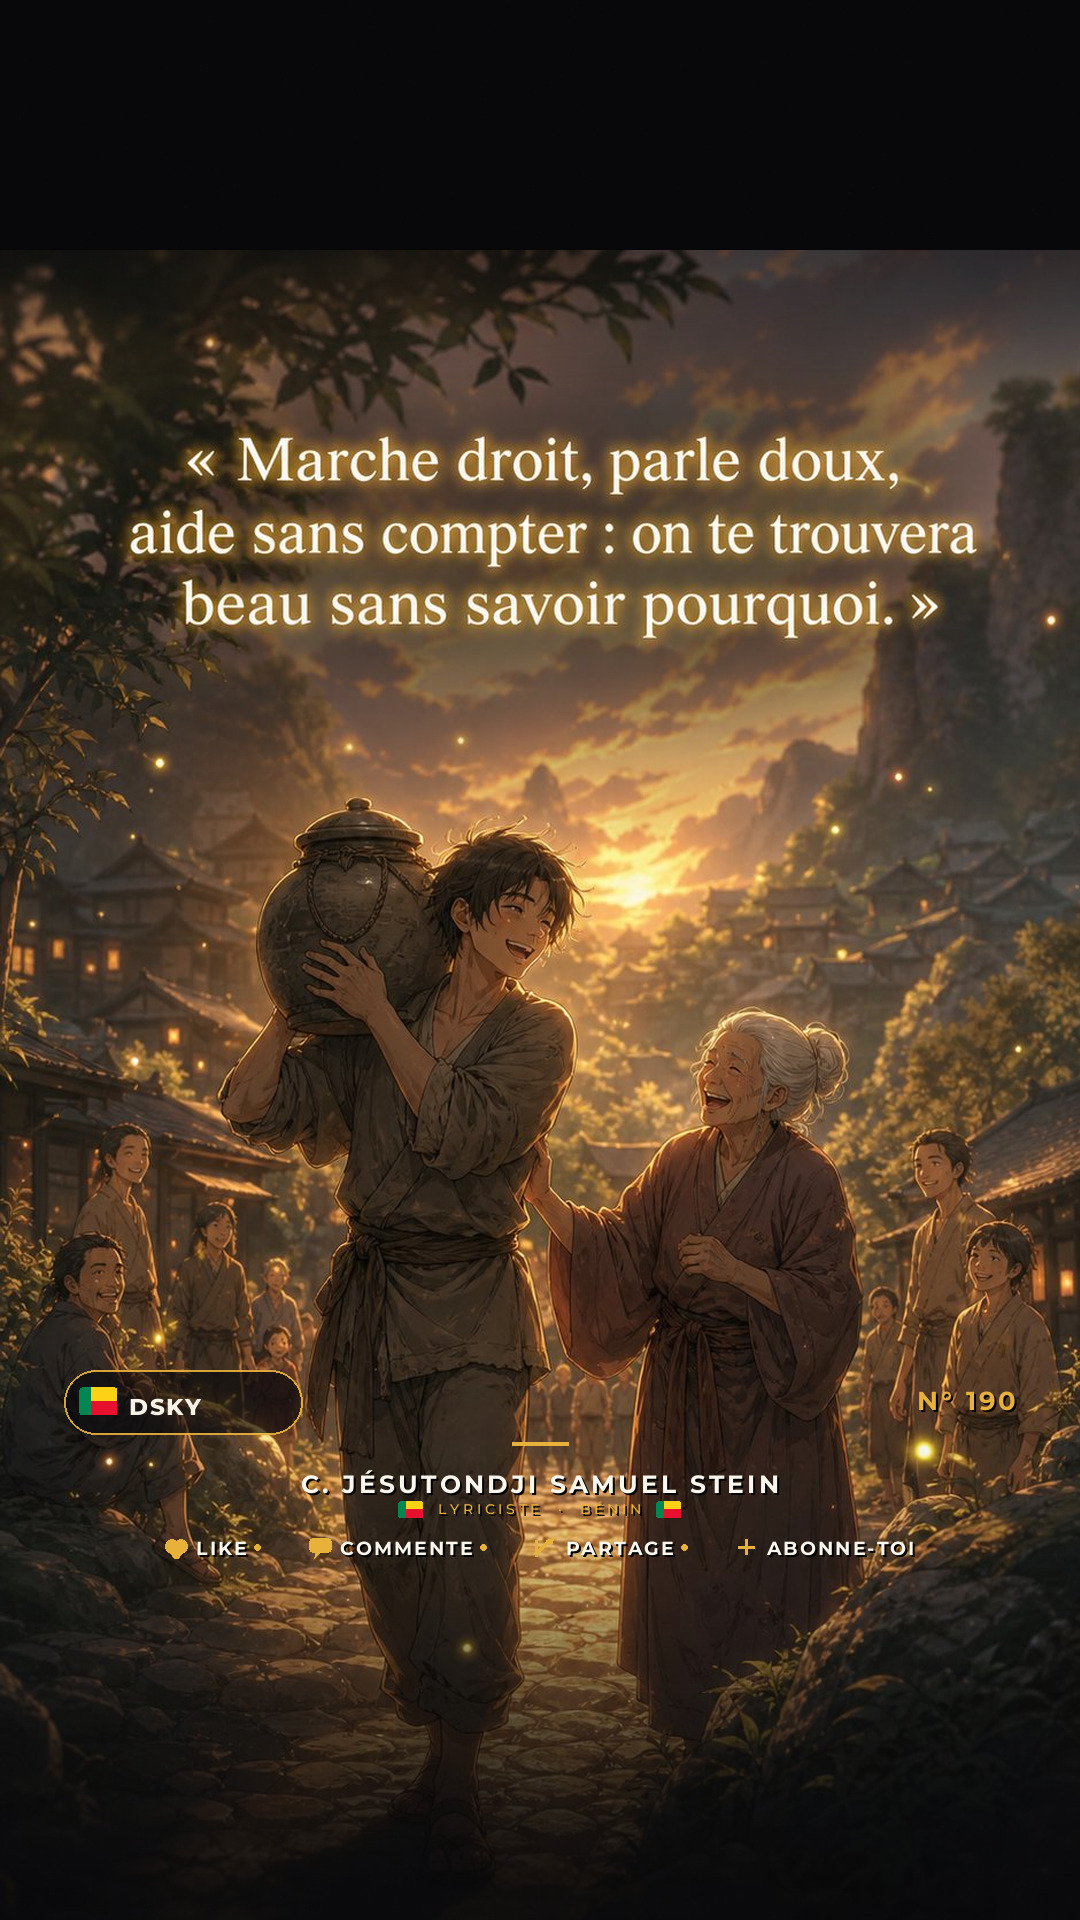
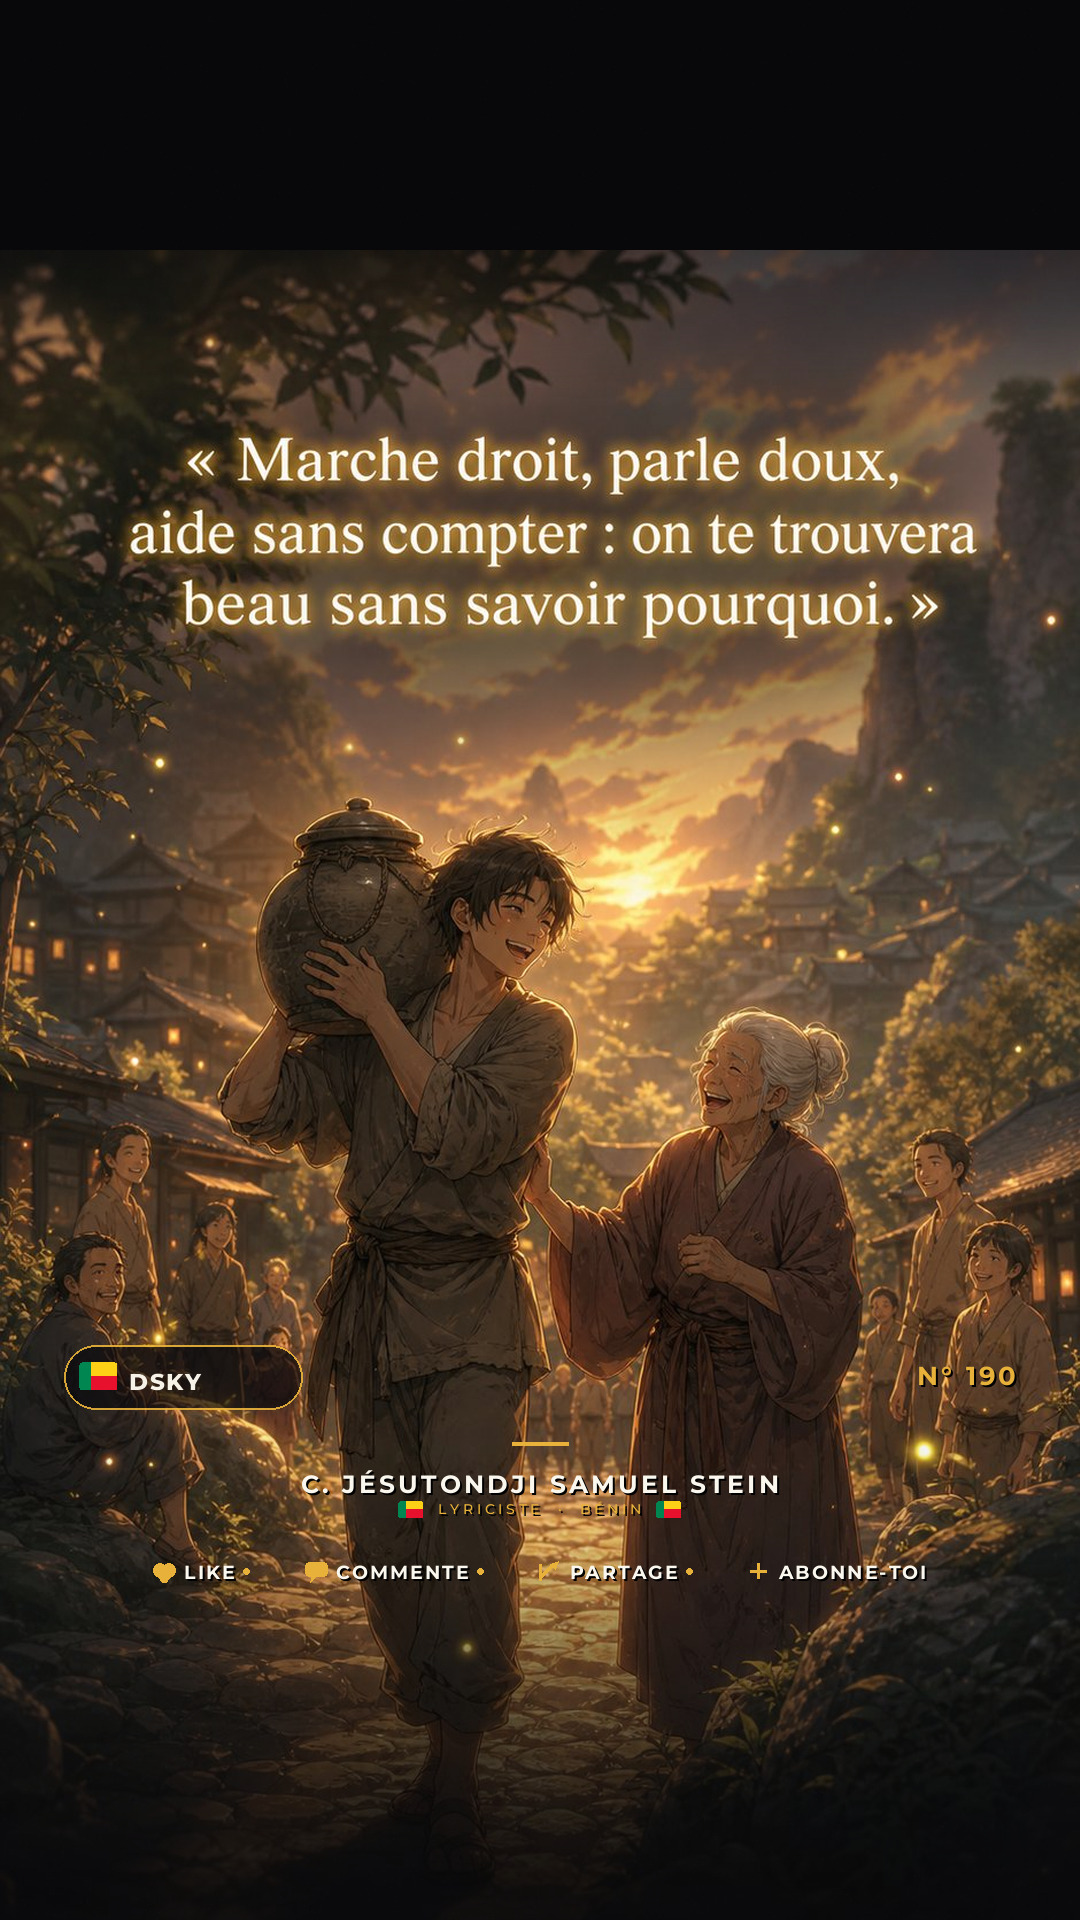
Série ART XIV : LE VOL NE PAIE PAS 191-200 — tiktok v3 only

diff --git a/dsky-quotes/compose_art_tt.py b/dsky-quotes/compose_art_tt.py
@@ -11,8 +11,13 @@ Recette :
   · TOUT le branding (badge DSKY + N° + signature + CTA) est dans le bloc
     bas, qui se termine ~y=1570 → plus rien n'est masqué.
 Sortie : saison-02/tiktok/quote-NN-tiktok.jpg
+
+v3 (demande user) : TikTok ONLY pour les nouvelles salves ; bloc bas
+aéré (badge 1345, signature 1478, CTA 1560, gaps elargis) ; filtre argv
+pour ne composer que les numeros donnes : python3 compose_art_tt.py 191 192 ...
 """
 import os
+import sys
 from PIL import Image, ImageDraw
 from compose import (ROOT, montserrat, draw_tracking, tracking_w, draw_badge,
                      draw_flag, grain, STYLES)
@@ -49,14 +54,14 @@ def brand_tiktok(num):
     for i in range(0, 400):
         od.line([(0, i), (W, i)], fill=(8, 8, 10, max(0, 235 - int(235*i/400))))
     # léger voile bas derrière le branding
-    for i in range(1300, H):
-        t = (i-1300)/(H-1300)
+    for i in range(1280, H):
+        t = (i-1280)/(H-1280)
         od.line([(0, i), (W, i)], fill=(8, 8, 10, int(150*t*t)))
     img.alpha_composite(ov)
     d = ImageDraw.Draw(img)
 
     # ---- bloc bas ZONE SÛRE : badge + N° ----
-    yb = 1370
+    yb = 1345
     draw_badge(img, m, yb, acc)
     fnum = montserrat(26, 700)
     t = f"N° {num}"
@@ -82,13 +87,13 @@ def brand_tiktok(num):
         draw_flag(ImageDraw.Draw(fl), 0, 0, fw2, fh2)
         img.paste(fl, (int(fx), fy+23), mflag)
 
-    # ---- CTA (se termine ~y=1570, loin des overlays TikTok) ----
+    # ---- CTA (aéré : gap 46, se termine ~y=1582, loin des overlays TikTok) ----
     cta = [("LIKE", icon_heart), ("COMMENTE", icon_comment),
            ("PARTAGE", icon_share), ("ABONNE-TOI", icon_plus)]
-    fi = montserrat(19, 700); tr = 2; dotw, gaps = 22, 40
+    fi = montserrat(19, 700); tr = 2; dotw, gaps = 24, 46
     blocks = [(w_, ic, tracking_w(d, w_, fi, tr)) for w_, ic in cta]
     total = sum(22+9+ww for _, _, ww in blocks) + 3*(dotw+gaps)
-    x = W/2 - total/2; ycta = fy + 58
+    x = W/2 - total/2; ycta = fy + 82
     for i, (word, icon, ww) in enumerate(blocks):
         icon(d, x+11, ycta+11, 22, acc+(255,))
         draw_tracking(d, (x+22+9, ycta), word, fi, txt+(235,), tr=tr, shadow=(0, 0, 0, 160))
@@ -105,5 +110,6 @@ def brand_tiktok(num):
 
 if __name__ == "__main__":
     os.makedirs(os.path.join(ROOT, "saison-02/tiktok"), exist_ok=True)
-    for n in tuple(ART):
+    nums = [int(a) for a in sys.argv[1:]] or list(ART)
+    for n in nums:
         brand_tiktok(n)

diff --git a/dsky-quotes/compose_art.py b/dsky-quotes/compose_art.py
@@ -34,6 +34,8 @@ ART = {  # num -> style d'accent
     176: "AFRO", 177: "LUXE", 178: "MINIMAL", 179: "AFRO", 180: "LUXE",
     181: "AFRO", 182: "LUXE", 183: "LUXE", 184: "AFRO", 185: "MINIMAL",
     186: "LUXE", 187: "AFRO", 188: "LUXE", 189: "MINIMAL", 190: "AFRO",
+    191: "LUXE", 192: "AFRO", 193: "MINIMAL", 194: "LUXE", 195: "AFRO",
+    196: "MINIMAL", 197: "LUXE", 198: "AFRO", 199: "MINIMAL", 200: "LUXE",
 }
 
 def brand(num):

diff --git a/dsky-quotes/citations/citations_corrigees.md b/dsky-quotes/citations/citations_corrigees.md
@@ -572,3 +572,28 @@ Si un seul de mes vers a allumé quelque chose en toi, fais-le-moi savoir : comm
 **189.** `LAIDE, VRAIMENT ?` — garde balafré qui partage son pain vs noble glacé — « Être laid, ce n'est pas le visage : c'est mentir, trahir, rabaisser les gens. »
 
 **190.** `LA JALOUSIE` — masque de porcelaine fendu, serpent vert — « La jalousie défigure plus vite que n'importe quelle cicatrice. »
+
+---
+
+## SAISON 2 — Série ART XIV (191 → 200) — « LE VOL NE PAIE PAS »
+*Pour décourager ceux qui aiment le vol. Livraison TikTok uniquement (gabarit v3 aéré). Orthographe vérifiée 10/10.*
+
+**191.** `LE CHIEN` — voleur acculé, chien aux yeux luisants — « Le voleur craint tous les regards, même ceux d'un chien. »
+
+**192.** `LE PAIN DU TRAVAIL` — ouvrier doré vs voleur tremblant — « Mange ton travail avec fierté : ce que tu voles se mange avec peur. »
+
+**193.** `L'ARGENT À JAMBES` — pièces ailées qui s'enfuient — « L'argent volé a des jambes : il s'enfuit plus vite qu'il n'est venu. »
+
+**194.** `LE NOM VIDE` — monument de son nom qui s'effrite — « Le vol remplit ta poche, mais il vide ton nom. »
+
+**195.** `LES MAINS DE FUMÉE` — butin emporté pendant le sommeil — « Ce que tu prends en volant, tu le perds en dormant. »
+
+**196.** `À LA PORTE` — garde masqués, fête inaccessible — « Personne ne serre la main d'un voleur : sa richesse reste à la porte. »
+
+**197.** `LA NUIT OU LE MATIN` — lune de sang vs aube dorée — « Vole, et tu gagneras la nuit ; travaille, et tu gagneras le matin. »
+
+**198.** `LA MAIN QUI VOLE` — balance dorée vs amis en braises — « La main qui vole s'enrichit d'objets et s'appauvrit d'amis. »
+
+**199.** `LES PORTES VERROUILLÉES` — maison chaude derrière la grille sous la pluie — « Le travail bâtit une maison ; le vol n'ouvre que des portes verrouillées. »
+
+**200.** `LE TAMBOUR MUET` — village en cercle, doigts pointés — « Le vol est un tambour muet : un jour, tout le village le danse. »

diff --git a/dsky-quotes/README.md b/dsky-quotes/README.md
@@ -218,6 +218,16 @@ N°, signature, drapeau et barre CTA dans la bande basse — moteur `compose_art
 | 188 | Sans savoir pourquoi | la jarre portée |
 | 189 | Laide, vraiment ? | garde vs noble glacé |
 | 190 | La jalousie | masque fendu |
+| 191 | Le chien | voleur acculé |
+| 192 | Le pain du travail | ouvrier vs voleur |
+| 193 | L'argent à jambes | pièces ailées |
+| 194 | Le nom vide | monument effrité |
+| 195 | Les mains de fumée | butin emporté |
+| 196 | À la porte | gardes masqués |
+| 197 | La nuit ou le matin | route en deux |
+| 198 | La main qui vole | balance & braises |
+| 199 | Les portes verrouillées | grille sous la pluie |
+| 200 | Le tambour muet | village en cercle |
 
 Textes intégraux : `citations/citations_corrigees.md` (sections Série ART, ART II, ART III).
 
